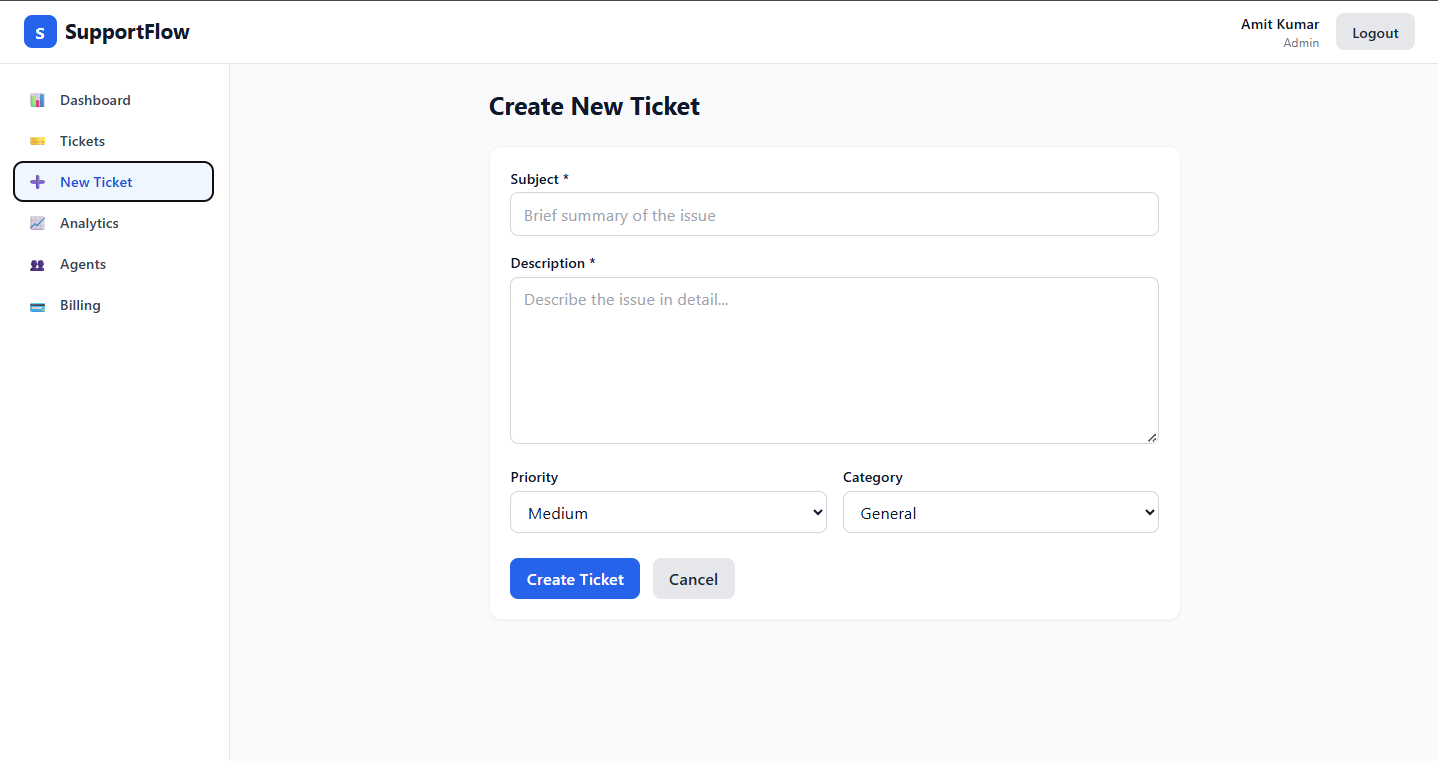
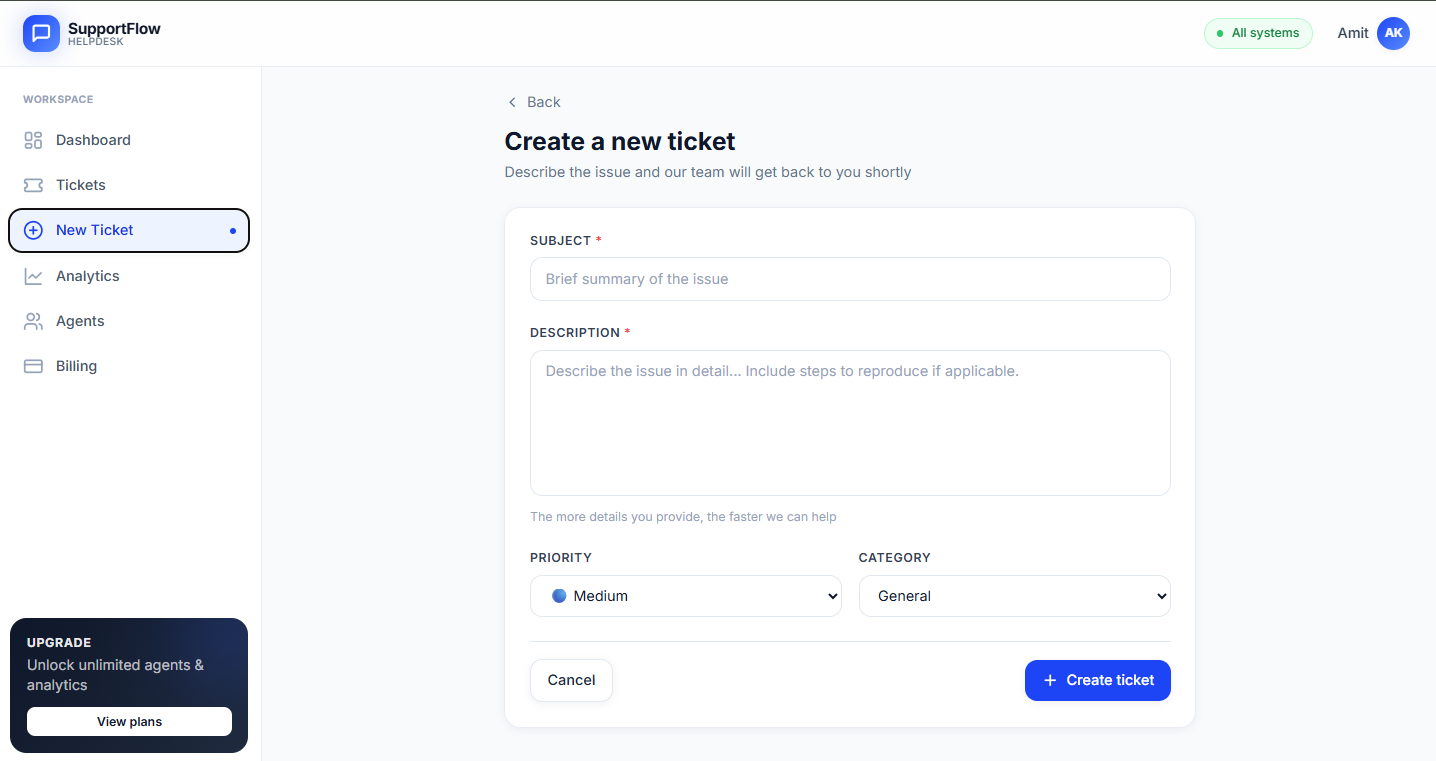
docs: complete README with screenshots, usage guide & responsive design

diff --git a/README.md b/README.md
@@ -1,15 +1,3 @@
-
-## 🚀 Live Demo
-
-- **Frontend:** [https://support-flow-gamma.vercel.app](https://support-flow-gamma.vercel.app)
-- **Backend API:** [https://supportflow-7avd.onrender.com/health](https://supportflow-7avd.onrender.com/health)
-
-### Demo Credentials
-| Role | Email | Password |
-|------|-------|----------|
-| Admin | amitsir1355@gmail.com | 123456 |
-
-
 # 🎫 SupportFlow — Multi-Tenant SaaS Helpdesk
 
 A production-ready, multi-tenant helpdesk platform where companies can manage customer tickets, chat in real-time, and analyze performance — all with subscription-based billing.
@@ -22,6 +10,20 @@ A production-ready, multi-tenant helpdesk platform where companies can manage cu
 [![MongoDB](https://img.shields.io/badge/MongoDB-8-green?logo=mongodb)](https://mongodb.com)
 [![React](https://img.shields.io/badge/React-18-blue?logo=react)](https://react.dev)
 [![Redis](https://img.shields.io/badge/Redis-7-red?logo=redis)](https://redis.io)
+[![Live Demo](https://img.shields.io/badge/Live-Demo-success?logo=vercel)](https://support-flow-gamma.vercel.app)
+
+## 🚀 Live Demo
+
+- **Frontend:** [https://support-flow-gamma.vercel.app](https://support-flow-gamma.vercel.app)
+- **Backend API:** [https://supportflow-7avd.onrender.com/health](https://supportflow-7avd.onrender.com/health)
+
+### 🔑 Demo Credentials
+
+| Role | Email | Password |
+|------|-------|----------|
+| Admin | amitsir1355@gmail.com | 123456 |
+
+> ⚠ **Note:** Backend runs on Render's free tier — the first request may take 30-50 seconds (cold start). This is normal.
 
 ## 📖 About
 
@@ -44,42 +46,113 @@ Every workspace is fully isolated: users, tickets, messages, and analytics are s
 - 📎 **File uploads** via Cloudinary
 - 🔍 **Search, filter, pagination**
 - 🎨 **Modern UI** with TailwindCSS
+- 📱 **Fully responsive** — mobile, tablet, and desktop
 - 🐳 **Docker** + GitHub Actions CI/CD
+
+## 🎯 How to Use
+
+### 👨💼 For Admins (Company Owners)
+
+1. **Sign up** — Create your workspace with your company name
+2. **Invite agents** — Add team members to handle tickets
+3. **Monitor tickets** — Track all customer tickets in your workspace
+4. **Assign tickets** — Route tickets to the right agent
+5. **Chat in real-time** — Reply to customers instantly with live chat
+6. **Track SLA** — Get alerts before deadlines breach
+7. **View analytics** — Analyze ticket trends, agent performance, response times
+8. **Manage billing** — Upgrade plans via Stripe integration
+
+### 👨💻 For Agents (Support Team)
+
+1. **View assigned tickets** — See all tickets routed to you
+2. **Reply to customers** — Send public replies visible to customers
+3. **Add internal notes** — Collaborate with team (customers can't see these)
+4. **Update status** — Mark tickets as Open → Pending → Resolved → Closed
+5. **View performance** — Track your metrics on analytics dashboard
+
+### 👤 For Customers
+
+1. **Raise a ticket** — Describe your issue in detail
+2. **Chat in real-time** — Get instant replies from support agents
+3. **Track status** — See real-time updates on your tickets
+4. **Attach files** — Share screenshots or documents
+5. **Get email updates** — Notifications on every reply
 
 ## 📸 Screenshots
 
-### 🔐 Login & Register — Multi-tenant signup
+### 🔐 Authentication
+
 | Login | Register |
 |-------|----------|
 | ![Login](./screenshots/login.png) | ![Register](./screenshots/register.png) |
 
 ### 📊 Dashboard — Overview of tickets and stats
+
 ![Dashboard](./screenshots/dashboard.png)
 
-### 🎫 New Ticket — Create and assign
-![New Ticket](./screenshots/new-ticket.png)
+### 🎫 Tickets
 
-### 💬 Ticket Detail — Real-time chat + internal notes
+**Ticket List:**
+![Ticket List](./screenshots/ticket-list.png)
+
+**Ticket Detail with Real-time Chat:**
 ![Ticket Detail](./screenshots/ticket-detail.png)
 
-### 📈 Analytics — Performance insights
+**Create New Ticket:**
+![New Ticket](./screenshots/new-ticket.png)
+
+### 📈 Analytics — Performance Insights
+
 ![Analytics](./screenshots/analytics.png)
 
-### 👥 Agents — Team management
+### 💳 Billing — Subscription Plans
+
+![Billing](./screenshots/billing.png)
+
+### 👥 Agents — Team Management
+
 ![Agents](./screenshots/agents.png)
 
-### 💳 Billing — Subscription plans
-![Billing](./screenshots/billing.png)
+## 📱 Responsive Design
+
+SupportFlow is **fully responsive** — works seamlessly across all devices.
+
+### 📱 Mobile View (375px)
+
+<p align="center">
+  <img src="./screenshots/mobile-login.png" width="200" alt="Mobile Login" />
+  <img src="./screenshots/mobile-register.png" width="200" alt="Mobile Register" />
+  <img src="./screenshots/mobile-dashboard.png" width="200" alt="Mobile Dashboard" />
+</p>
+
+<p align="center">
+  <img src="./screenshots/mobile-tickets.png" width="200" alt="Mobile Tickets" />
+  <img src="./screenshots/mobile-create-ticket.png" width="200" alt="Mobile Create Ticket" />
+  <img src="./screenshots/mobile-analytics.png" width="200" alt="Mobile Analytics" />
+</p>
+
+<p align="center">
+  <img src="./screenshots/mobile-navbar.png" width="200" alt="Mobile Navbar" />
+  <img src="./screenshots/mobile-billing.png" width="200" alt="Mobile Billing" />
+</p>
+
+**Mobile Features:**
+- 📱 Slide-in sidebar drawer with overlay
+- 👆 Touch-friendly tap targets (min 44px)
+- 📊 Responsive charts that adapt to screen size
+- 🎨 Adaptive grid layouts (1-col mobile → 4-col desktop)
+- ✨ Fluid typography that scales with viewport
+- 🚫 Body scroll lock when drawer is open
 
 ## 🛠 Tech Stack
 
 ### Frontend
 - **React 18** + Vite
-- **Redux Toolkit** for state
+- **Redux Toolkit** for state management
 - **React Router v6** for routing
 - **TailwindCSS** for styling
-- **Recharts** for charts
-- **Socket.io Client** for real-time
+- **Recharts** for data visualization
+- **Socket.io Client** for real-time communication
 - **Axios** with interceptors for auto-refresh tokens
 
 ### Backend
@@ -89,18 +162,18 @@ Every workspace is fully isolated: users, tickets, messages, and analytics are s
 - **Socket.io** for real-time messaging
 - **JWT** with refresh token rotation
 - **Zod** for request validation
-- **Nodemailer** for emails
-- **Stripe** for billing
+- **Nodemailer** for transactional emails
+- **Stripe** for subscription billing
 - **Cloudinary** for file uploads
 - **Helmet, CORS, Rate-limit** for security
 
 ### DevOps
 - **Docker** + docker-compose
-- **GitHub Actions** for CI
+- **GitHub Actions** for CI/CD
 - **Render** for backend deployment
 - **Vercel** for frontend deployment
 - **MongoDB Atlas** for cloud database
-- **Upstash Redis** for cloud cache
+- **Upstash Redis** for cloud cache & queues
 
 ## 🏗 Architecture
 
@@ -121,6 +194,7 @@ Every workspace is fully isolated: users, tickets, messages, and analytics are s
 ## 🚀 Local Setup
 
 ### Prerequisites
+
 - Node.js 18+
 - MongoDB (local or [Atlas](https://cloud.mongodb.com))
 - Redis (local, [Memurai](https://memurai.com), or [Upstash](https://upstash.com))
@@ -129,12 +203,14 @@ Every workspace is fully isolated: users, tickets, messages, and analytics are s
 - Cloudinary account — optional
 
 ### 1. Clone the repository
+
 ```bash
 git clone https://github.com/iamdeveloper17/SupportFlow.git
 cd SupportFlow
 ```
 
 ### 2. Backend setup
+
 ```bash
 cd server
 npm install
@@ -146,6 +222,7 @@ npm run dev
 Server will run on `http://localhost:5000`
 
 ### 3. Frontend setup
+
 ```bash
 cd ../client
 npm install
@@ -156,6 +233,7 @@ npm run dev
 Client will run on `http://localhost:5173`
 
 ### 4. Open the app
+
 Navigate to `http://localhost:5173/register` and create your first workspace.
 
 ## 🔑 Environment Variables
@@ -163,7 +241,7 @@ Navigate to `http://localhost:5173/register` and create your first workspace.
 See `server/.env.example` and `client/.env.example` for the full list. Key variables:
 
 | Variable | Description | Required |
-|----------|-------------|----------|
+|----------|-------------|:--------:|
 | `MONGO_URI` | MongoDB connection string | ✅ |
 | `REDIS_URL` | Redis connection string | ✅ |
 | `JWT_ACCESS_SECRET` | JWT signing secret (32+ chars) | ✅ |
@@ -179,12 +257,12 @@ See `server/.env.example` and `client/.env.example` for the full list. Key varia
 SupportFlow/
 ├── client/                     # React frontend
 │   ├── src/
-│   │   ├── api/                # Axios config
+│   │   ├── api/                # Axios config with auto-refresh
 │   │   ├── app/                # Redux store
 │   │   ├── features/           # Redux slices
 │   │   ├── components/         # UI components
 │   │   ├── pages/              # Route pages
-│   │   ├── hooks/              # Custom hooks
+│   │   ├── hooks/              # Custom hooks (useSocket, useAuth)
 │   │   └── routes/             # Route guards
 │   └── package.json
 ├── server/                     # Node backend
@@ -200,25 +278,40 @@ SupportFlow/
 │   │   ├── validators/         # Zod schemas
 │   │   └── utils/              # Helpers
 │   └── server.js
-├── screenshots/                # README images
+├── screenshots/                # Desktop & mobile screenshots
+├── .github/workflows/          # GitHub Actions CI
 ├── docker-compose.yml
+├── LICENSE
 └── README.md
 ```
 
 ## 🎯 Roadmap
 
-- [x] Multi-tenancy
-- [x] JWT auth + RBAC
-- [x] Ticket CRUD
-- [x] Real-time chat
-- [x] Email notifications
-- [x] SLA tracking
-- [x] Analytics dashboard
-- [x] Stripe billing
-- [x] File uploads
+- [x] Multi-tenancy with isolated workspaces
+- [x] JWT auth + refresh token rotation
+- [x] Role-based access control (4 roles)
+- [x] Complete ticket CRUD lifecycle
+- [x] Real-time chat (Socket.io + Redis adapter)
+- [x] Email notifications (Nodemailer)
+- [x] SLA tracking (BullMQ delayed jobs)
+- [x] Analytics dashboard (MongoDB aggregation)
+- [x] Stripe subscription billing
+- [x] Cloudinary file uploads
+- [x] Docker + GitHub Actions CI
+- [x] Fully responsive design (mobile-first)
 - [ ] WhatsApp integration
 - [ ] Mobile app (React Native)
 - [ ] AI-powered ticket categorization
+
+## 💡 Technical Highlights
+
+- **Cross-domain cookies** — `SameSite=None` + `Secure` + CORS credentials handling for Vercel + Render split deployment
+- **JWT expiry handling** — auto-refresh via Axios interceptor with retry queue and refresh token rotation
+- **Duplicate message prevention** — ID deduplication + Socket.io `.except()` to exclude sender from broadcast
+- **Multi-tenant isolation** — compound indexes on `workspace` field for query performance
+- **Real-time scaling** — Socket.io with Redis adapter for multi-instance support
+- **Case-sensitive CI fix** — proper file naming conventions for Linux compatibility
+- **Mobile-first design** — slide-in drawer, adaptive grids, touch-friendly components
 
 ## 🤝 Contributing
 
@@ -233,7 +326,7 @@ This project is licensed under the MIT License — see the [LICENSE](./LICENSE) 
 **Amit Kumar**
 
 - GitHub: [@iamdeveloper17](https://github.com/iamdeveloper17)
-- LinkedIn: [Your LinkedIn](https://www.linkedin.com/in/amit-kumar-9193b0216?utm_source=share_via&utm_content=profile&utm_medium=member_android)
+- LinkedIn: [@amit-kumar-9193b0216](https://www.linkedin.com/in/amit-kumar-9193b0216)
 - Email: ramit5752@gmail.com
 
 ---
